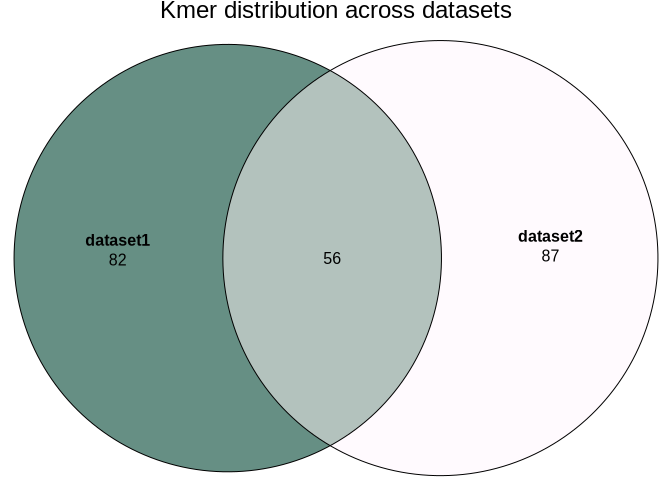
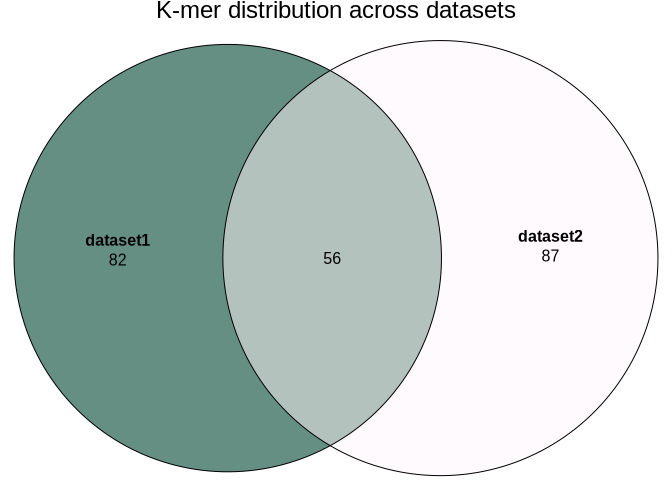
README.

Changed region(s): [[0.2188, 0.0, 0.7812, 0.0625]]

diff --git a/README.md b/README.md
@@ -140,10 +140,8 @@ well as select the shared and exclusive sequences.
 ``` r
     
     #Save plot
-    save_plot(histo, file_name = "histogram",
-              format = "pdf")
-#> png 
-#>   2
+    #save_plot(histo, file_name = "histogram",
+    #          format = "pdf")
     
 
 #3. Plot k-mer sharing relation
